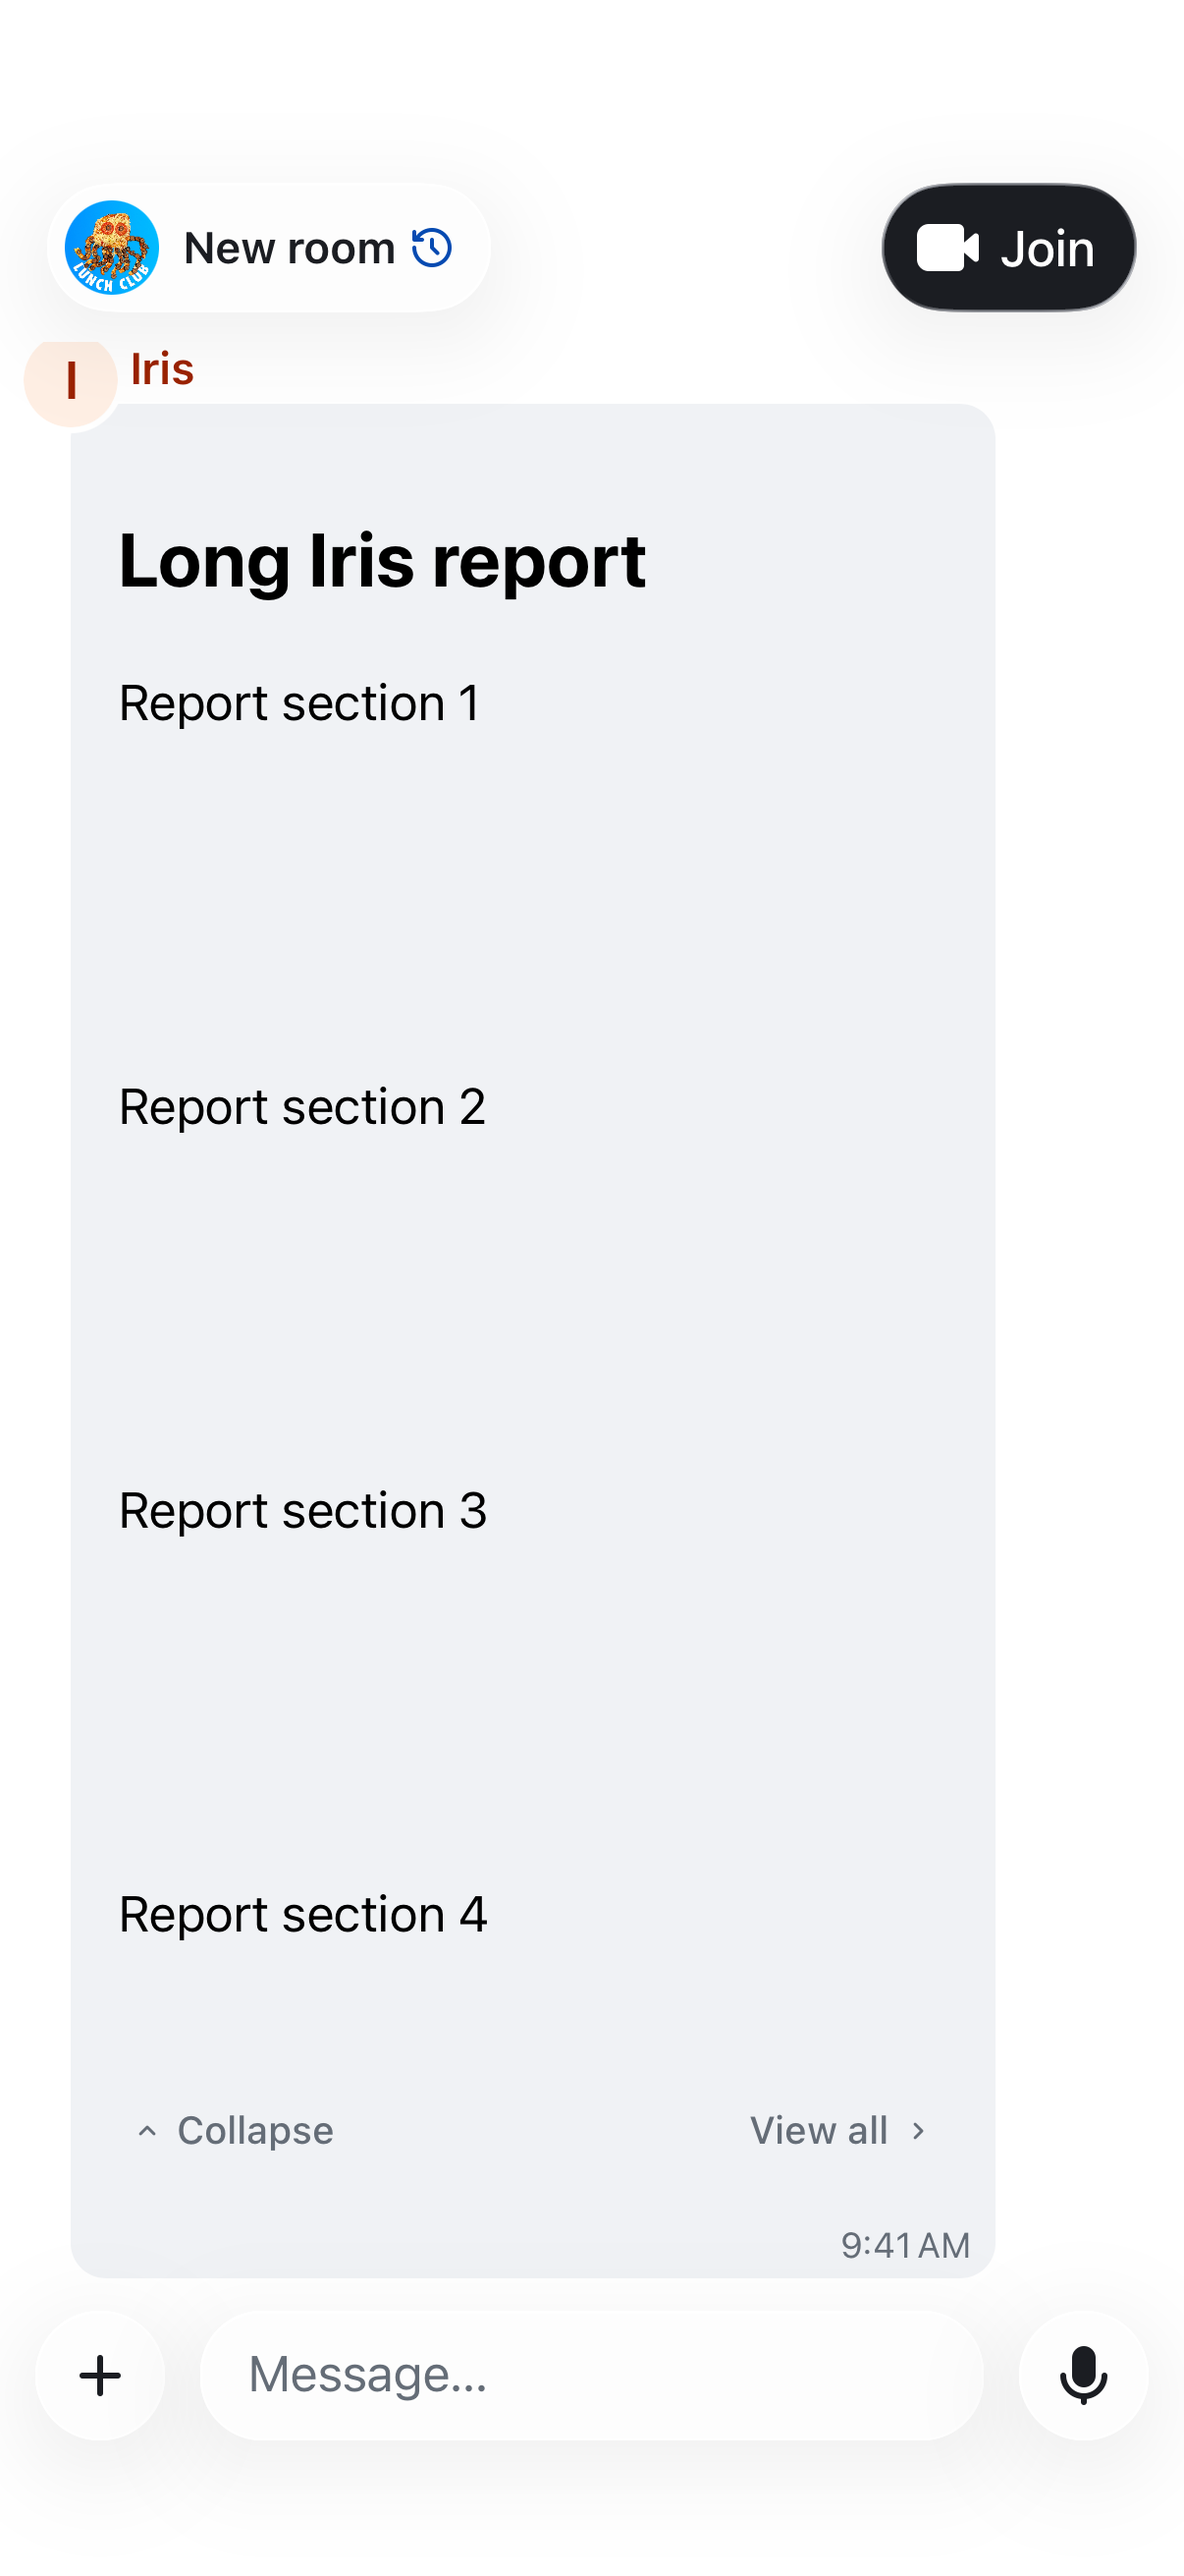
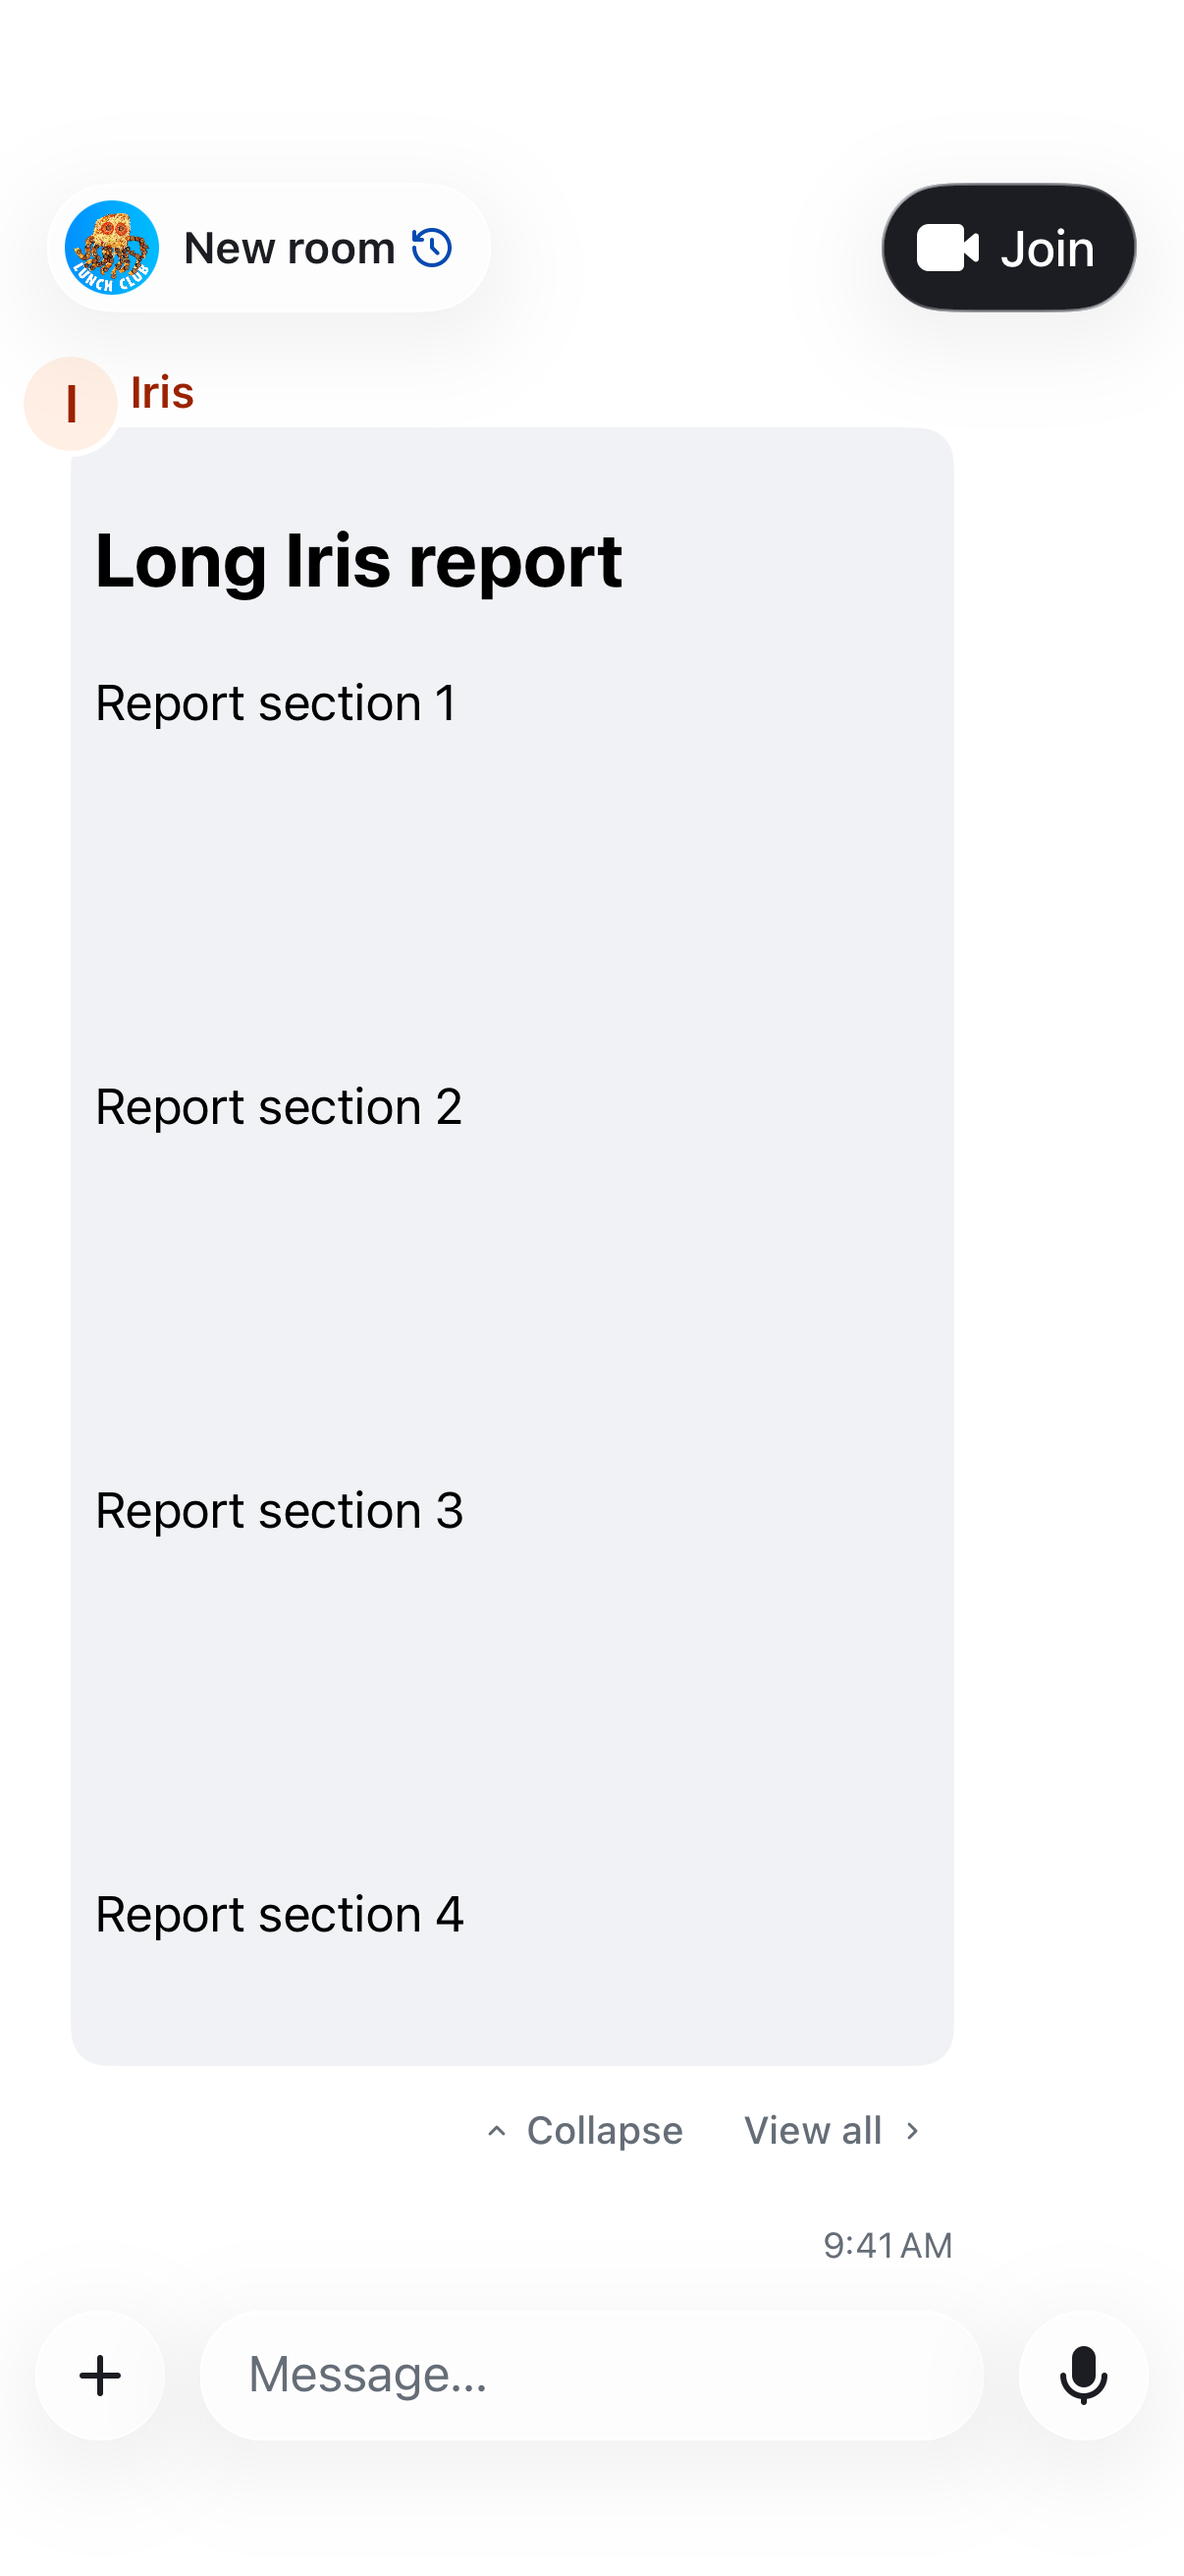
Place HTML card controls outside the card at its trailing edge
Give the content its own card surface and move both actions onto the chat background. Preserve timestamp spacing and refresh fixed-width previews after rotation. Verify collapse, full reader, and rotation in three simulator UI tests.

diff --git a/ElementX/Sources/Other/IrisHTML/IrisHTMLCardView.swift b/ElementX/Sources/Other/IrisHTML/IrisHTMLCardView.swift
@@ -7,6 +7,7 @@ import WebKit
 
 struct IrisHTMLCardView: View {
     let card: IrisHTMLCard
+    var isOutgoing = false
     var collapsed: Binding<Bool>?
     @State private var locallyCollapsed = false
     @State private var contentSize = CGSize(width: 0, height: 80)
@@ -24,25 +25,30 @@ struct IrisHTMLCardView: View {
     
     var body: some View {
         VStack(alignment: .leading, spacing: 0) {
-            if isCollapsed.wrappedValue {
-                Text(card.summary)
-                    .font(.compound.bodyMD)
-                    .lineLimit(3)
-                    .frame(maxWidth: .infinity, alignment: .leading)
-                    .padding(.horizontal, 12)
-                    .padding(.top, 10)
-                    .padding(.bottom, 2)
-                    .accessibilityIdentifier("irisHTMLSummary")
-            } else if failed {
-                Text(UntranslatedL10n.irisHtmlRenderFailed)
-                Text(card.summary)
-            } else {
-                IrisHTMLWebView(document: card.document, contentSize: $contentSize, viewport: $viewport, failed: $failed)
-                    .frame(height: layout.height)
-                    .clipped()
-                    .accessibilityIdentifier("irisHTMLInlinePreview")
+            Group {
+                if isCollapsed.wrappedValue {
+                    Text(card.summary)
+                        .font(.compound.bodyMD)
+                        .lineLimit(3)
+                        .frame(maxWidth: .infinity, alignment: .leading)
+                        .padding(.horizontal, 12)
+                        .padding(.top, 10)
+                        .padding(.bottom, 10)
+                        .accessibilityIdentifier("irisHTMLSummary")
+                } else if failed {
+                    Text(UntranslatedL10n.irisHtmlRenderFailed)
+                    Text(card.summary)
+                } else {
+                    IrisHTMLWebView(document: card.document, contentSize: $contentSize, viewport: $viewport, failed: $failed)
+                        .frame(height: layout.height)
+                        .clipped()
+                        .accessibilityIdentifier("irisHTMLInlinePreview")
+                }
             }
+            .background(isOutgoing ? Color.compound._bgBubbleOutgoing : Color.compound._bgBubbleIncoming)
+            .clipShape(RoundedRectangle(cornerRadius: 12))
             HStack(spacing: 12) {
+                Spacer(minLength: 0)
                 Button {
                     isCollapsed.wrappedValue.toggle()
                 } label: {
@@ -57,7 +63,6 @@ struct IrisHTMLCardView: View {
                     .contentShape(Rectangle())
                 }
                 .accessibilityIdentifier("irisHTMLToggleCollapse")
-                Spacer(minLength: 0)
                 if isCollapsed.wrappedValue || layout.overflows {
                     Button { showingFullContent = true } label: {
                         HStack(spacing: 4) {
@@ -75,7 +80,7 @@ struct IrisHTMLCardView: View {
             .font(.footnote.weight(.medium))
             .foregroundStyle(Color.compound.textSecondary)
             .buttonStyle(.plain)
-            .padding(.horizontal, 8)
+            .padding(.horizontal, 4)
         }
         .frame(maxWidth: .infinity, alignment: .leading)
         .fullScreenCover(isPresented: $showingFullContent) {
@@ -262,6 +267,36 @@ struct IrisHTMLWebView: UIViewRepresentable {
 final class IrisHTMLViewportWebView: WKWebView {
     var viewportChanged: ((CGSize) -> Void)?
     private var lastViewport = CGSize.zero
+    private var orientationObservation: NSObjectProtocol?
+    private var orientationLayoutTask: Task<Void, Never>?
+    
+    override func didMoveToWindow() {
+        super.didMoveToWindow()
+        if let orientationObservation {
+            NotificationCenter.default.removeObserver(orientationObservation)
+            self.orientationObservation = nil
+        }
+        orientationLayoutTask?.cancel()
+        guard window != nil else { return }
+        orientationObservation = NotificationCenter.default.addObserver(forName: UIDevice.orientationDidChangeNotification,
+                                                                        object: nil, queue: .main) { [weak self] _ in
+            MainActor.assumeIsolated {
+                self?.orientationLayoutTask?.cancel()
+                self?.orientationLayoutTask = Task { @MainActor [weak self] in
+                    // The card can keep the same width during rotation. Wait for the window's transition to finish.
+                    try? await Task.sleep(for: .milliseconds(500))
+                    guard !Task.isCancelled else { return }
+                    self?.setNeedsLayout()
+                    self?.layoutIfNeeded()
+                }
+            }
+        }
+    }
+    
+    override func safeAreaInsetsDidChange() {
+        super.safeAreaInsetsDidChange()
+        setNeedsLayout()
+    }
     
     override func layoutSubviews() {
         super.layoutSubviews()

diff --git a/ElementX/Sources/Screens/Timeline/View/Style/TimelineItemBubbledStylerView.swift b/ElementX/Sources/Screens/Timeline/View/Style/TimelineItemBubbledStylerView.swift
@@ -321,6 +321,9 @@ private extension EventBasedTimelineItemProtocol {
         let defaultColor: Color = isOutgoing ? .compound._bgBubbleOutgoing : .compound._bgBubbleIncoming
         
         switch self {
+        case let item as TextRoomTimelineItem where item.content.irisHTMLCard != nil:
+            // The card owns its surface; its trailing controls sit outside that surface.
+            return nil
         case is ImageRoomTimelineItem, is VideoRoomTimelineItem:
             // In case a reply detail or a thread decorator is present we render the color and the padding
             return properties.replyDetails != nil || properties.isThreaded || hasMediaCaption ? defaultColor : nil
@@ -342,6 +345,8 @@ private extension EventBasedTimelineItemProtocol {
         }
         
         switch self {
+        case let item as TextRoomTimelineItem where item.content.irisHTMLCard != nil:
+            return .init(top: 0, leading: 0, bottom: 8, trailing: 0)
         case is StickerRoomTimelineItem:
             return .zero
         case is PollRoomTimelineItem:

diff --git a/ElementX/Sources/Screens/Timeline/View/TimelineItemViews/TextRoomTimelineView.swift b/ElementX/Sources/Screens/Timeline/View/TimelineItemViews/TextRoomTimelineView.swift
@@ -27,7 +27,7 @@ struct TextRoomTimelineView: View, TextBasedRoomTimelineViewProtocol {
         TimelineStyler(timelineItem: timelineItem) {
             VStack(alignment: .leading, spacing: 8) {
                 if let card = timelineItem.content.irisHTMLCard {
-                    IrisHTMLCardView(card: card, collapsed: htmlCardCollapsed)
+                    IrisHTMLCardView(card: card, isOutgoing: timelineItem.isOutgoing, collapsed: htmlCardCollapsed)
                         .frame(maxWidth: TimelineMediaFrame.maxLinkPreviewWidth)
                         .padding(.bottom, 20)
                 } else if let attributedString = timelineItem.content.formattedBody {

diff --git a/UITests/Sources/IrisHTMLCardUITests.swift b/UITests/Sources/IrisHTMLCardUITests.swift
@@ -18,6 +18,8 @@ final class IrisHTMLCardUITests: XCTestCase {
         XCTAssertTrue(summary.waitForExistence(timeout: 5))
         XCTAssertFalse(app.webViews.firstMatch.exists)
         XCTAssertLessThan(summary.frame.height, 150)
+        XCTAssertGreaterThanOrEqual(toggle.frame.minY, summary.frame.maxY)
+        XCTAssertLessThan(toggle.frame.maxX, app.buttons["irisHTMLViewFullContent"].frame.minX)
         XCTAssertEqual(summary.frame.width, previewWidth, accuracy: 25)
         let screenshot = XCTAttachment(screenshot: app.screenshot())
         screenshot.name = "Collapsed HTML summary"

diff --git a/docs/iris/HTML-CARDS.md b/docs/iris/HTML-CARDS.md
@@ -104,3 +104,8 @@ collapsed message. SwiftFormat and SwiftLint pass for the changed files.
 Card actions use secondary-colour footnote labels and small directional chevrons,
 with no filled button chrome. Each action retains a 44-point minimum hit height.
 The refined controls pass all three card UI flows, including rotation.
+
+Expand/Collapse and View all are grouped below the card, aligned to its trailing
+edge on the chat background. Only the HTML or summary has a card surface. The
+timestamp remains separate below the actions. Fixed-width cards also remeasure
+the viewport after device rotation, even when their own width is unchanged.
